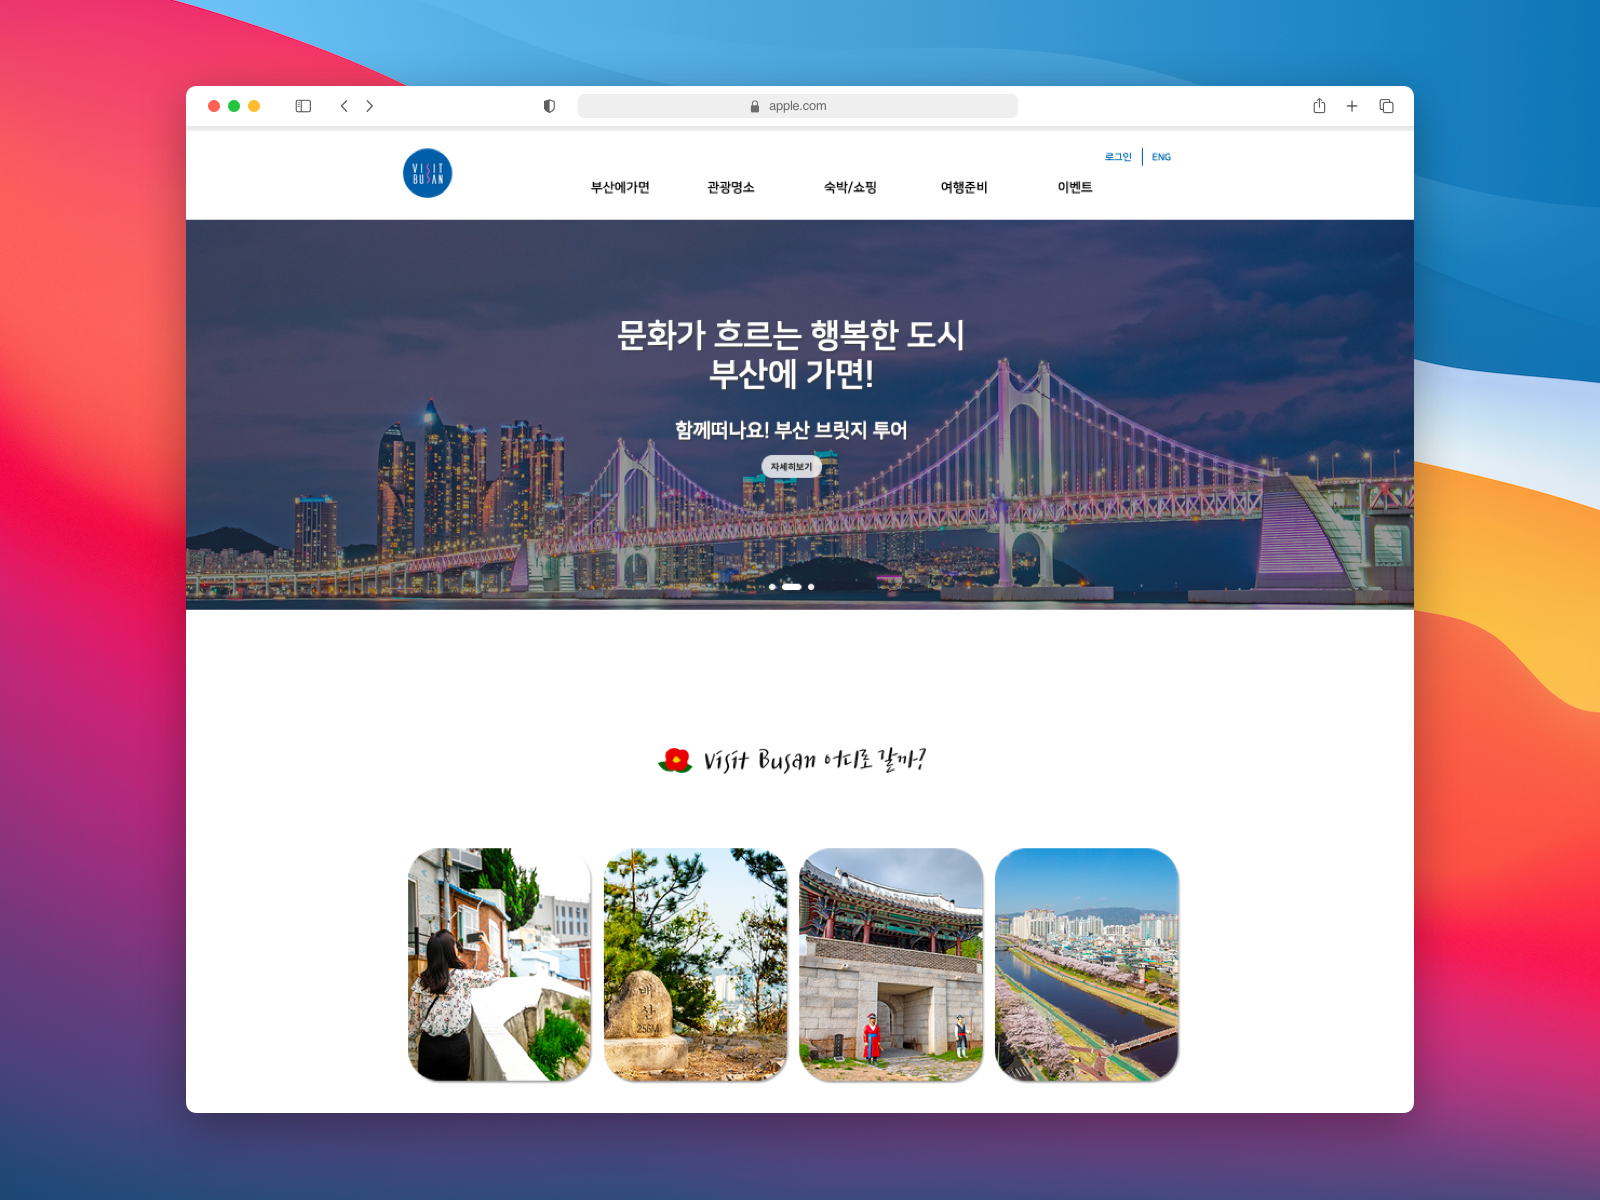
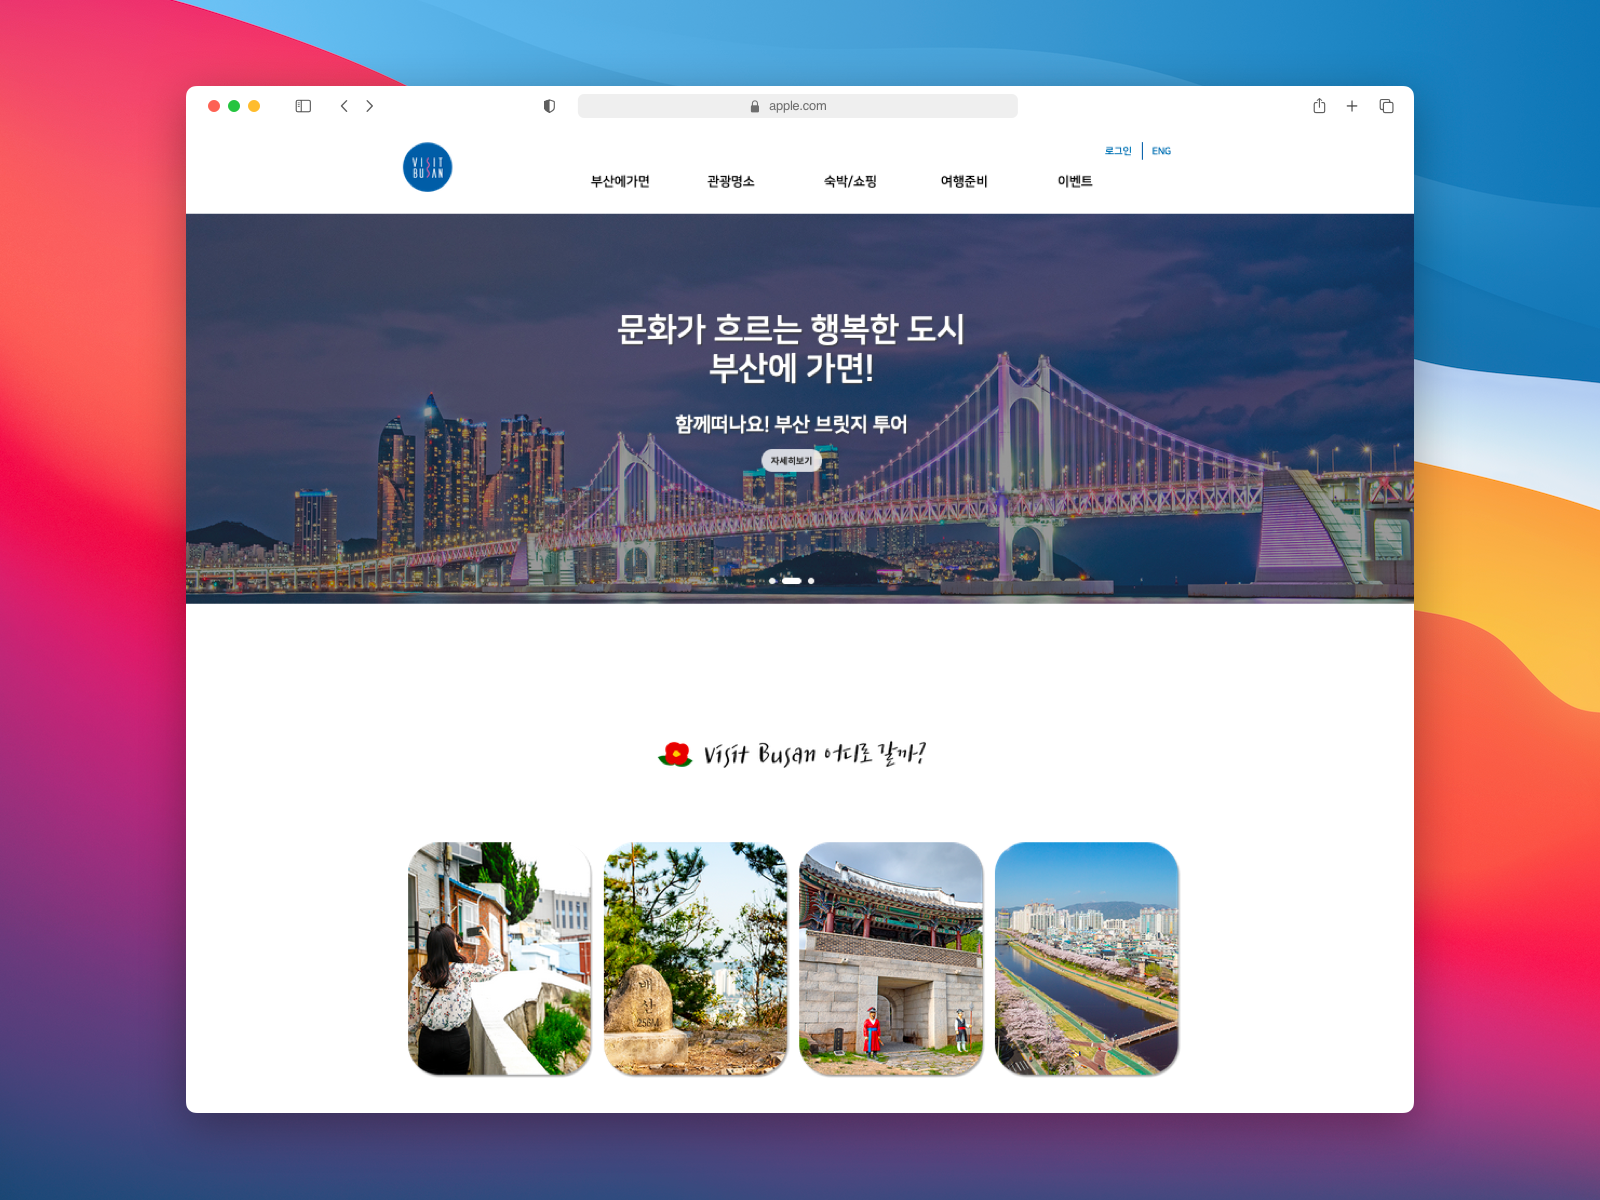
목업작업수정

diff --git a/mainindex.html b/mainindex.html
@@ -95,12 +95,32 @@
 
         <div class="content">
             <div class="servicesBx servicesBx1">
-                
-                <a href="./sub/index.html" target="_blank"><img src="./img/visitbusan.png" alt="visitbusan"style="max-width:100%; height:auto;"></a>
+
+                <div>
+                    <a href="./sub/index.html" target="_blank"><img src="./img/visitbusan.png" alt="visitbusan"
+                            style="max-width:100%; height:auto;">
+                    </a>
+                </div>
                 <div class="servicesBx-desc">
-                    <h2>웹프로젝트 1</h2>
-                    <p>Visit Busan renewal</p>
-                    <p>html,css,jquery</p>
+                    <a href="./sub/index.html" target="_blank">
+                        <h2>웹프로젝트 1</h2>
+                        <p>Visit Busan renewal</p>
+                        <p>html5,css3,jquery</p>
+                        <p>Lorem ipsum dolor sit, amet consectetur adipisicing elit. Aspernatur,</p>
+                        <p>Lorem ipsum dolor sit, amet consectetur adipisicing elit. Aspernatur,</p>
+                    </a>
+                </div>
+
+            </div>
+
+            <div class="servicesBx servicesBx2">
+                <a href="./sub/toyota/toyota-Renewal/toyota.html" target="_blank">
+                    <img src="./img/toyota.png" alt="toyota" style="max-width:100%; height:auto;">
+                </a>
+                <div class="servicesBx-desc">
+                    <h2>반응형 웹프로젝트2</h2>
+                    <p>Toyota renewal</p>
+                    <p>html5,css3,jquery</p>
                     <p>Lorem ipsum dolor sit, amet consectetur adipisicing elit. Aspernatur,</p>
                     <p>Lorem ipsum dolor sit, amet consectetur adipisicing elit. Aspernatur,</p>
                 </div>
@@ -108,21 +128,15 @@
 
             <div class="servicesBx servicesBx2">
                 <a href="./sub/toyota/toyota-Renewal/toyota.html" target="_blank">
-                    <img src="./img/toyota.png" alt="toyota"style="max-width:100%; height:auto;">
+                    <img src="./img/sellpy.png" alt="sellpy" style="max-width:100%; height:auto;">
                 </a>
                 <div class="servicesBx-desc">
-                    <h2>반응형 웹프로젝트2</h2>
-                    <p>Toyota renewal</p>
+                    <h2>(서브) 반응형 웹프로젝트3</h2>
+                    <p>sellpy renewal</p>
                     <p>html,css,jquery</p>
                     <p>Lorem ipsum dolor sit, amet consectetur adipisicing elit. Aspernatur,</p>
                     <p>Lorem ipsum dolor sit, amet consectetur adipisicing elit. Aspernatur,</p>
                 </div>
-            </div>
-
-            <div class="servicesBx servicesBx3">
-                <a href="./sub/toyota/toyota-Renewal/toyota.html" target="_blank"></a>
-                <h2>Sub project 01</h2>
-                <p>Lorem ipsum dolor sit, amet consectetur adipisicing elit. Aspernatur,</p>
             </div>
         </div>
     </section>

diff --git a/css/main.css b/css/main.css
@@ -1,12 +1,13 @@
 @charset "utf-8";
 @import url('https://fonts.googleapis.com/css2?family=Lato:ital,wght@0,100;0,300;0,400;0,700;0,900;1,100;1,300;1,400;1,700;1,900&family=Noto+Sans+KR:wght@100;300;400;500;700;900&display=swap');
-@import url('https://fonts.googleapis.com/css2?family=Lato:ital,wght@0,100;0,300;0,400;0,700;0,900;1,100;1,300;1,400;1,700;1,900&display=swap');
+@import url('https://fonts.googleapis.com/css2?family=Montserrat:ital,wght@0,100;0,200;0,300;0,400;0,500;0,600;0,700;0,900;1,100;1,200;1,300;1,400;1,500;1,600;1,800&display=swap');
 
 * {
     margin: 0;
     padding: 0;
-    font-family: 'Lato', 'Noto Sans KR', Verdana, Dotum, AppleGothic, sans-serif;
+    font-family: 'Montserrat', 'Noto Sans KR', Verdana, Dotum, AppleGothic, sans-serif;
     scroll-behavior: smooth;
+    overflow-x: hidden;
 }
 
 button {
@@ -106,7 +107,7 @@ section {
 .banner .contentBx h2 {
     font-size: 3em;
     color: #333;
-    line-height: 1em;
+    line-height: 1.5em;
 }
 
 .banner .contentBx p {
@@ -322,7 +323,9 @@ section {
 .services .content .servicesBx img {
     transition: 0.5s;
 }
-
+.servicesBx-slogo img{
+    display: none;
+}
 /* .services .content .servicesBx:hover img {
     filter: invert(1);
 
@@ -505,22 +508,16 @@ section {
 
     .about .content {
         margin-top: 0px;
+        display: flex;
     }
 
     .services .content .servicesBx {
+        display: flex;
         padding: 30px 20px;
-        max-width: 340px;
+        max-width: 740px;
         margin: 10px;
-    }
-    .services .content .servicesBx img{
-        display: none;
-    }
-    .services .content .servicesBx1{
-        background: url('../img/visitbusan-logo.png')no-repeat center center;
-    }
-    .services .content .servicesBx2{
-        background: url('../img/toyota-logored.png')no-repeat center center;
-        max-width: 100%
+        flex-direction: column;
+        align-items: center;
     }
     .contact .contactForm {
         width: 100%;

diff --git a/sub/toyota/toyota-Renewal/toyota.html b/sub/toyota/toyota-Renewal/toyota.html
@@ -90,14 +90,14 @@
 
 
                     <div id="content1" class="models-content">
-                        <img src="./img/main/2021 MIRAI -left.png" alt="MIRAI">
+                        <img src="./img/main/2021 MIRAI -left.png" alt="MIRAI" style="max-width:100%; height:auto;">
                     </div>
 
                     <div id="content2" class="models-content">
-                        <img src="./img/main/AVALON-left.png" alt="AVALON">
+                        <img src="./img/main/AVALON-left.png" alt="AVALON" style="max-width:100%; height:auto;">
                     </div>
 
-                    <div id="content3" class="models-content">
+                    <div id="content3" class="models-content" style="max-width:100%; height:auto;">
                         <img src="./img/main/HIGHLANDER-left.png" alt="HIGHLANDER">
                     </div>
 

diff --git a/sub/toyota/toyota-Renewal/css/main.css b/sub/toyota/toyota-Renewal/css/main.css
@@ -151,7 +151,6 @@ position: relative; top:120px; }
         transform: translateX(-50%);
         transition: 0.3s;
 }
-.models-content img { width: 100%; }
 
 
 /* models tablet start */
